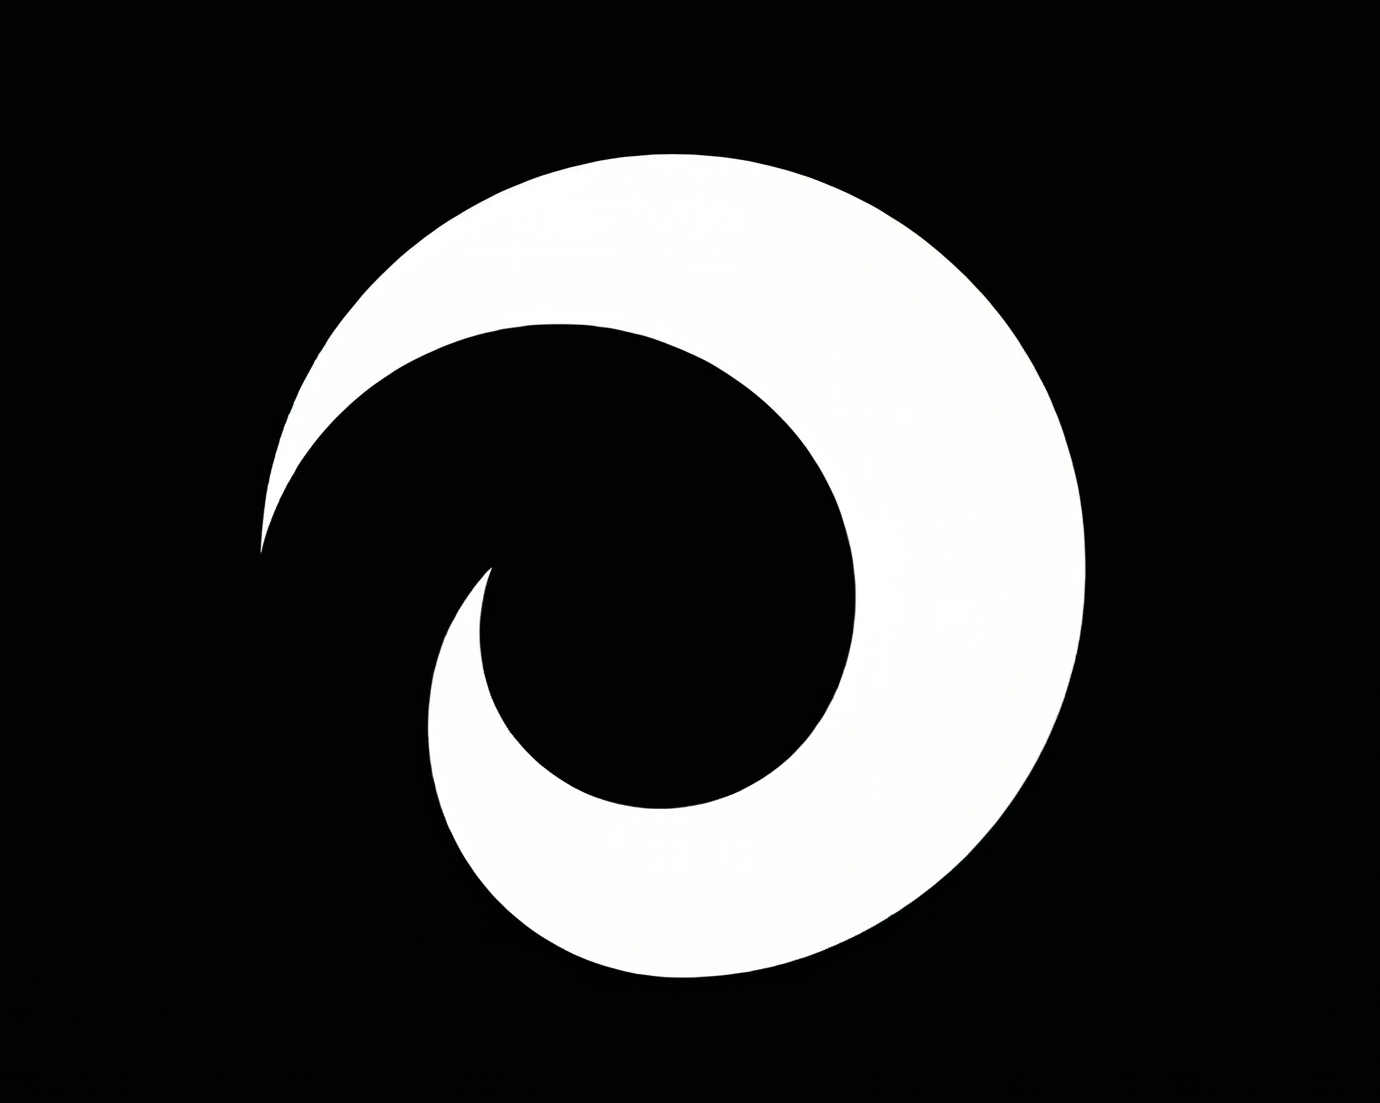
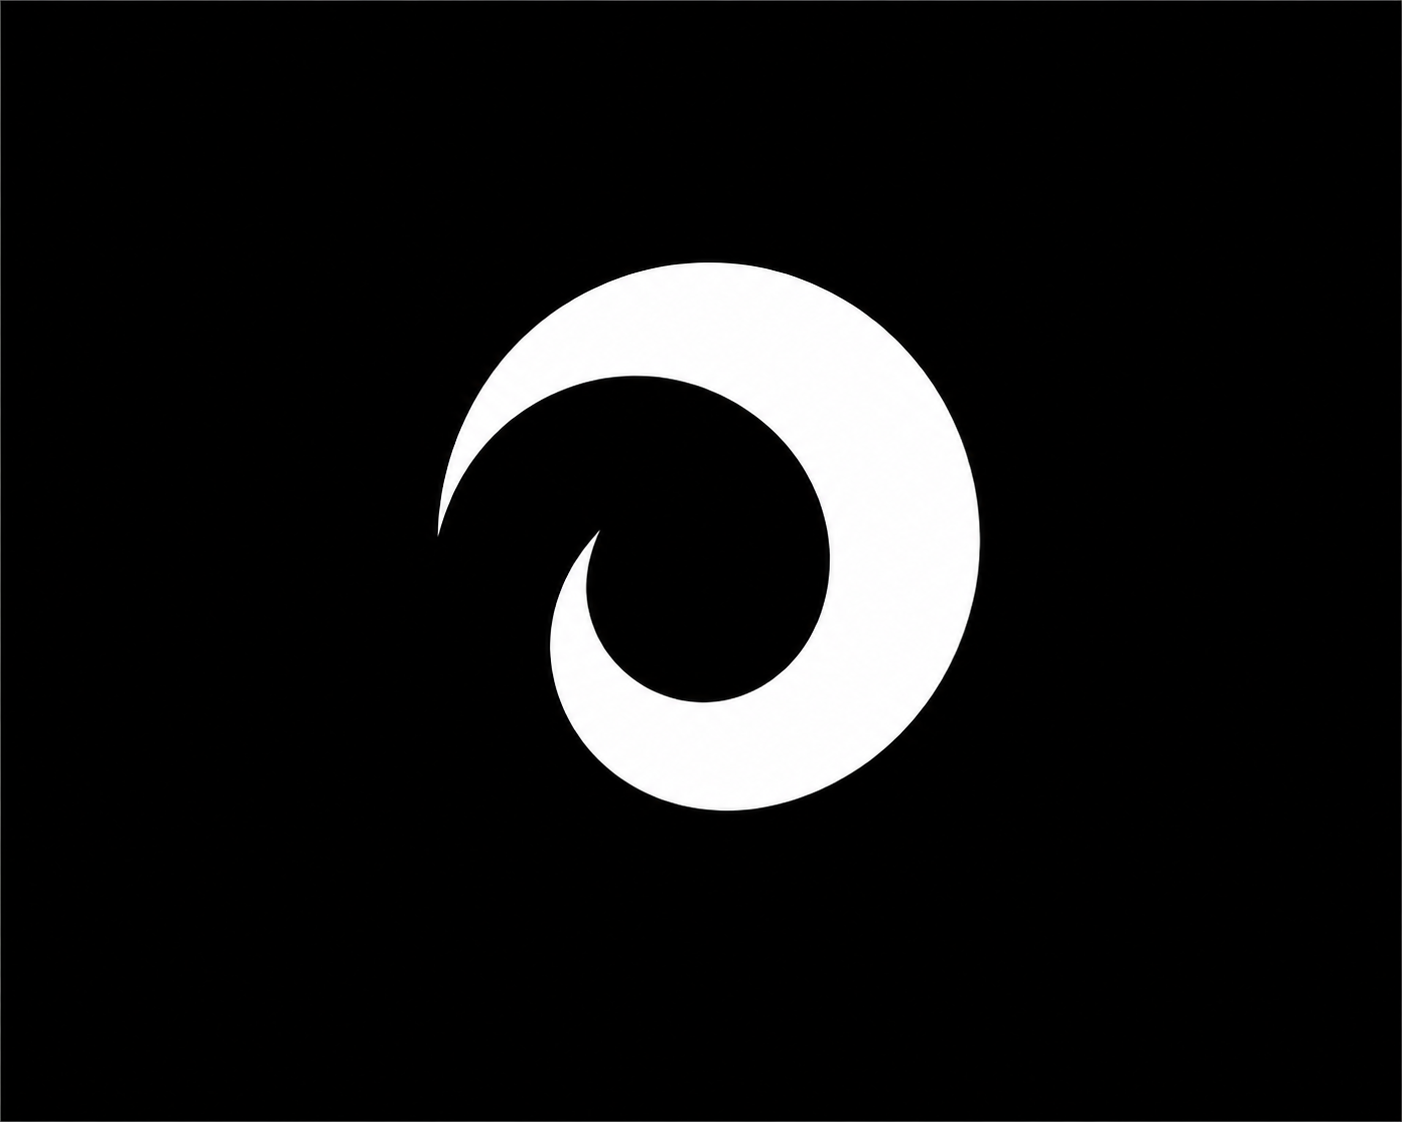
'.'

Changed region(s): [[0.187, 0.1233, 0.8101, 0.8939], [0.9971, 0.0, 1.0, 1.0]]

diff --git a/portfolio-project/src/components/Project.jsx b/portfolio-project/src/components/Project.jsx
@@ -4,22 +4,22 @@ import link from "../assets/external-link.png"
 
 const Project = ({ data }) => {
     return (
-        <div className="flex items-center gap-5 text-white border-b border-white/15 pb-5">
-            <div className="w-[250px] h-full rounded-lg overflow-hidden border border-white/10">
+        <div className="flex items-center gap-5 text-white border-b border-white/10 pb-5">
+            <div className="rounded-lg overflow-hidden border border-white/10">
                 {data.image ? (
                     <img
                         src={data.image}
                         alt={data.projectName}
-                        className="w-full h-full object-cover object-center"
+                        className="w-[200px] h-[150px] object-cover object-center"
                     />
                 ) : (
-                    <div className="w-full h-full flex justify-center items-center text-white/30 text-xs font-medium">
+                    <div className="w-[200px] h-[150px] flex justify-center items-center text-white/30 text-xs font-medium">
                         N/A
                     </div>
                 )}
             </div>
-            <div className="flex flex-col gap-2 flex-1">
-                <div className="flex items-center gap-2 justify-between">
+            <div className="flex flex-col gap-1 flex-1">
+                <div className="flex items-center justify-between">
                     <h2 className="font-semibold text-white tracking-tight text-xl">
                         {data.projectName}
                     </h2>
@@ -44,13 +44,13 @@ const Project = ({ data }) => {
                             rel="noopener noreferrer"
                             className="inline-block"
                         >
-                            <Button className="h-7 cursor-pointer bg-white/10 backdrop-blur-md border-0 hover:bg-white/25 text-white/90 text-sm flex gap-2 px-3 py-1 rounded-md">
+                            <Button className="h-7 cursor-pointer bg-white/10 backdrop-blur-md border-0 hover:bg-white/25 text-white text-xs flex gap-2 px-3 py-1 rounded-md items-center">
                                 <span>Go to Project</span>
                                 <img src={link} alt="" className="h-[10px] w-[10px]" />
                             </Button>
                         </a>
                     ) : (
-                        <Button className="h-7 backdrop-blur-md border-0 bg-black/80 hover:bg-black/80 text-white/70 text-sm px-3 py-1 rounded-md" disabled>
+                        <Button className="h-7 backdrop-blur-md border-0 bg-black/80 hover:bg-black/80 text-white/70 text-xs px-3 py-1 rounded-md" disabled>
                             <span>Not Available</span>
                         </Button>
                     )}

diff --git a/portfolio-project/src/sections/Projects.jsx b/portfolio-project/src/sections/Projects.jsx
@@ -25,14 +25,14 @@ const Projects = () => {
     {
       image: schooltechh,
       projectName: 'Intern Pro',
-      description: 'Collaborated with PMs, backend engineers, and UI/UX designers to deliver a responsive school management platform. Implemented core management features, including role, partner, mentor, and activity management.',
+      description: 'Collaborated with PMs, backend engineers, and UI/UX designers to deliver a responsive school management platform. Implemented core features, including role, partner, mentor, and activity management.',
       status: false,
       link: null
     },
     {
       image: bmusic,
       projectName: 'B Music Studio',
-      description: 'Developed a custom booking system and company profile for BMusicStudio, streamlining studio reservations and improving customer experience.',
+      description: 'Developed a custom booking system and company profile for BMusicStudio, streamlining studio reservations and improving overall customer experience using modern technologies.',
       status: false,
       link: null
     },
@@ -57,8 +57,8 @@ const Projects = () => {
       className='min-h-screen flex flex-col justify-center items-center gap-10' 
       id='projects'
     >
-      <h1 className='text-4xl text-white font-semibold'>Past Projects</h1>
-      <div className='w-full max-w-[1200px] grid grid-cols-1 md:grid-cols-2 gap-x-8 gap-y-5 pr-1'>
+      <h1 className='text-3xl text-white font-semibold'>Past Projects</h1>
+      <div className='w-full max-w-[1200px] grid grid-cols-1 md:grid-cols-2 gap-x-8 gap-y-4 pr-1'>
         {datas.toReversed().map((data, index) => (
           <Project key={index} data={data} />
         ))}

diff --git a/portfolio-project/src/components/Experience.jsx b/portfolio-project/src/components/Experience.jsx
@@ -5,7 +5,7 @@ const Experience = ({ data }) => {
 	const { image, company, position, type, startDate, endDate, descriptions } = data
 	return (
 		<div className="flex gap-6">
-			<Separator orientation="vertical" className='bg-white/15' />
+			<Separator orientation="vertical" className='bg-white/20' />
 			<div className='w-full flex flex-col gap-2'>
 				<div className='flex justify-between items-start'>
 					<h2 className="flex items-center gap-4">
@@ -14,8 +14,8 @@ const Experience = ({ data }) => {
 							alt={company}
 							className="h-14 w-22 rounded-md object-cover object-center"
 						/>
-						<div className="flex flex-col justify-center">
-							<span className="font-medium text-2xl">{company}</span>
+						<div className="flex flex-col justify-center gap-1">
+							<span className="font-semibold text-xl">{company}</span>
 							<p className="text-base text-white/70">
 								{position}
 								<span className="mx-2">•</span>

diff --git a/portfolio-project/src/sections/Experiences.jsx b/portfolio-project/src/sections/Experiences.jsx
@@ -1,7 +1,7 @@
 import React from 'react'
 import Experience from '../components/Experience'
 import ramu from '../assets/ramu.png'
-import alterra from '../assets/alterra.jpeg'
+import alterra from '../assets/alterra.png'
 import schooltech from '../assets/schooltech.png'
 
 const Experiences = () => {
@@ -40,7 +40,7 @@ const Experiences = () => {
     <div 
       className='relative flex flex-col items-center justify-center gap-10 min-h-screen text-white' id='experiences'
     >
-      <h1 className='text-4xl font-semibold'>My Experiences</h1>
+      <h1 className='text-3xl font-semibold'>My Experiences</h1>
       <div className='flex flex-col gap-14 justify-center items-center max-w-[1200px]'>
         {datas.map((data, i) =>(
           <Experience key={i} data={data}/>

diff --git a/portfolio-project/src/sections/Introduction.jsx b/portfolio-project/src/sections/Introduction.jsx
@@ -7,12 +7,12 @@ import gmail from '../assets/gmail.png'
 const Introduction = () => {
   return (
     <div 
-      className='relative flex justify-center h-dvh bg-cover bg-center' id='introduction'
+      className='relative flex justify-center min-h-screen bg-cover bg-center' id='introduction'
     >
       <div className={`flex justify-between items-center text-white w-full max-w-[1200px]`}>
         <div className='flex flex-col gap-3 max-w-[610px]'>
           <h1 className='text-7xl font-bold'>Hello, I'm Juvens!</h1>
-          <h2 className='text-2xl text-white font-semibold mt-2'>A Full-Stack Web Developer.</h2>
+          <h2 className='text-2xl text-white font-semibold mt-2 text-white/90'>A Full-Stack Web Developer.</h2>
           <p className='text-lg text-white/70 mb-3'>Architecting scalable backend systems and crafting intuitive, pixel-perfect interfaces. I build full-stack web applications where high-performance engineering meets exceptional user experience.</p>
           <button className='bg-white/20 backdrop-blur-md rounded-md cursor-pointer w-fit'>
             <div className="flex justify-center items-center gap-2 hover:bg-white/10 rounded-md py-2 px-5 transition duration-200">

diff --git a/portfolio-project/src/sections/Skills.jsx b/portfolio-project/src/sections/Skills.jsx
@@ -100,7 +100,7 @@ const Skills = () => {
     <div 
       className='flex flex-col justify-center items-center gap-10 min-h-screen bg-center bg-cover' id='skills'
     >
-      <h1 className='text-center text-white text-4xl font-semibold'>My Skills</h1>
+      <h1 className='text-center text-white text-3xl font-semibold'>My Skills</h1>
       <div className='grid grid-cols-1 sm:grid-cols-2 md:grid-cols-3 lg:grid-cols-4 gap-5 w-full max-w-[1150px] justify-center'>
         {datas.map((data, index) => (
           <Skill key={index} data={data} />